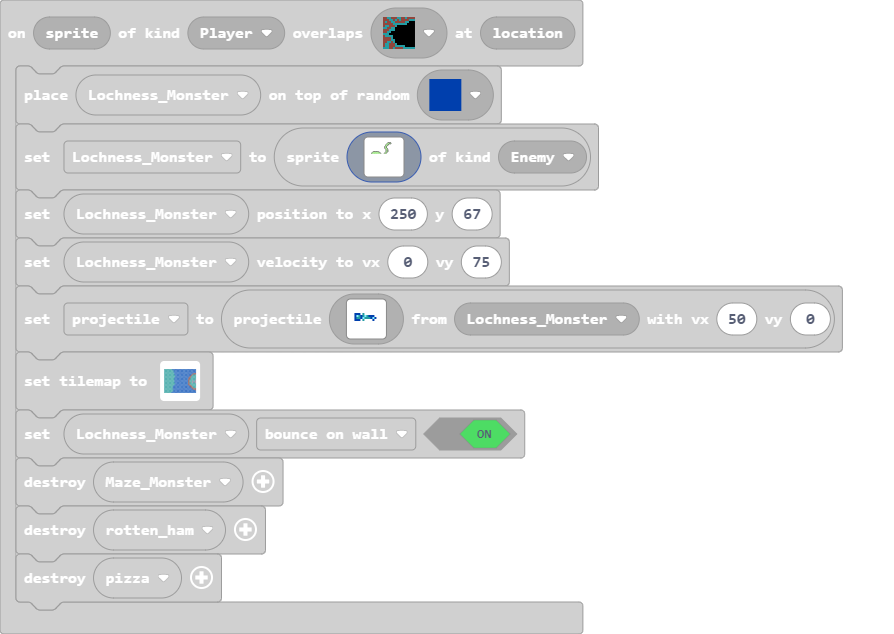
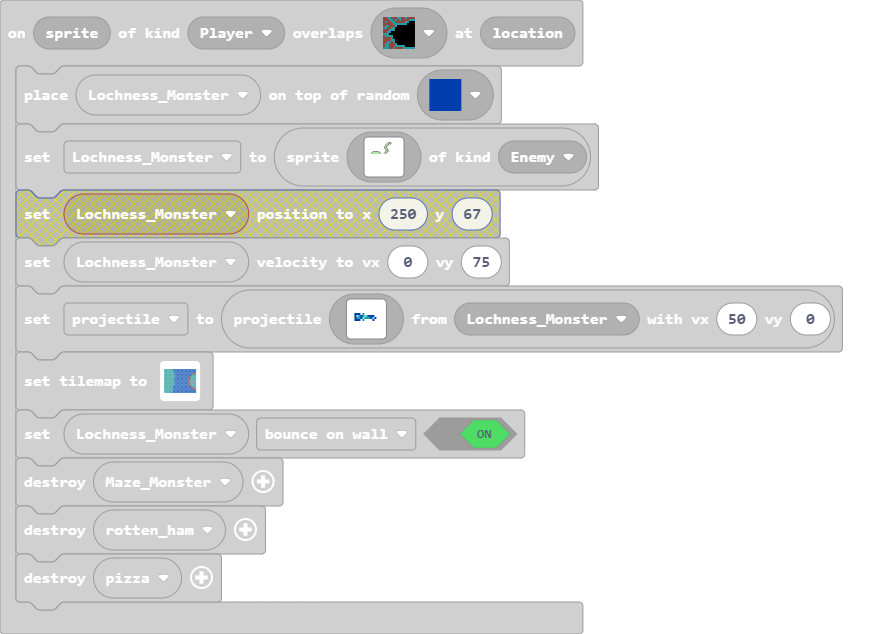
Update main.blocks, main.ts

Changed region(s): [[0.0, 0.2098, 0.5738, 0.3896]]

diff --git a/main.ts b/main.ts
@@ -303,7 +303,6 @@ scene.onOverlapTile(SpriteKind.Player, myTiles.tile17, function (sprite, locatio
         ........................................
         ........................................
         `, SpriteKind.Enemy)
-    Lochness_Monster.setPosition(250, 67)
     Lochness_Monster.setVelocity(0, 75)
     projectile = sprites.createProjectileFromSprite(img`
         . . . . . . . . . . . . . . . . 
